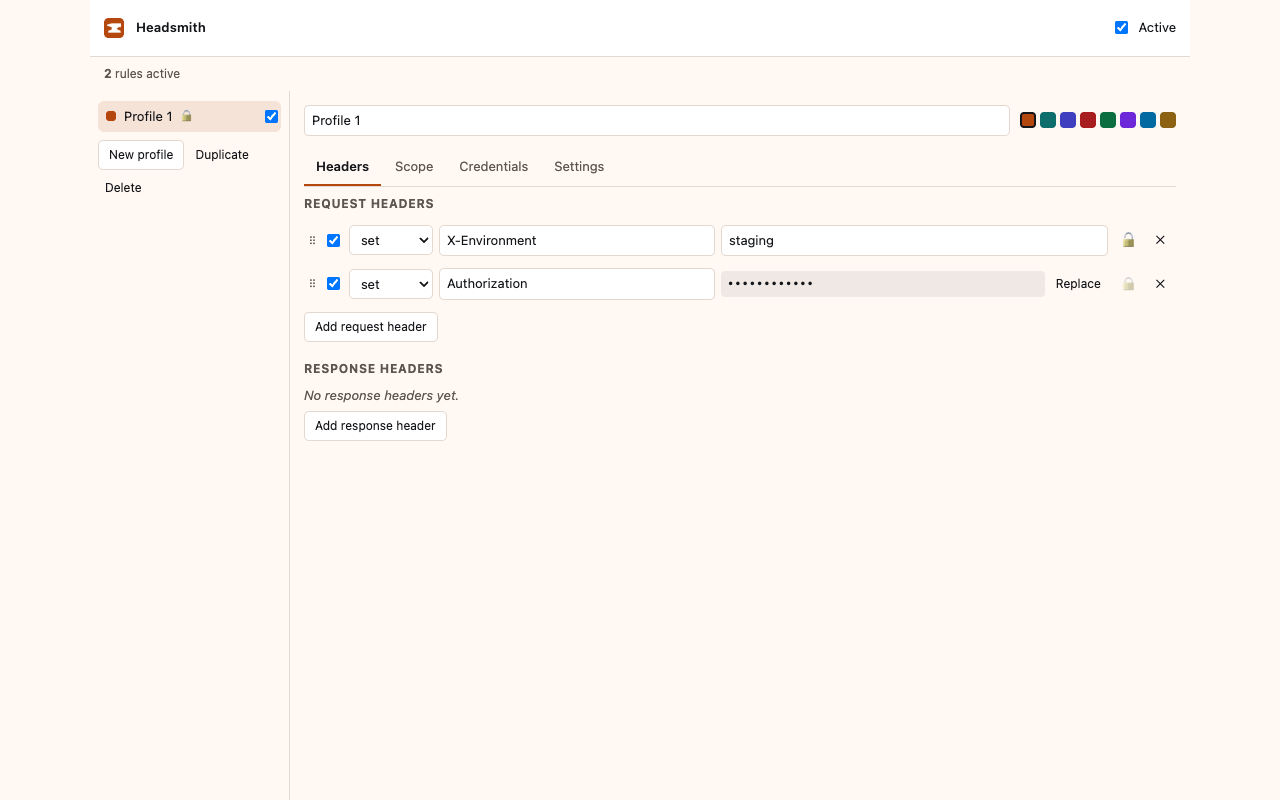
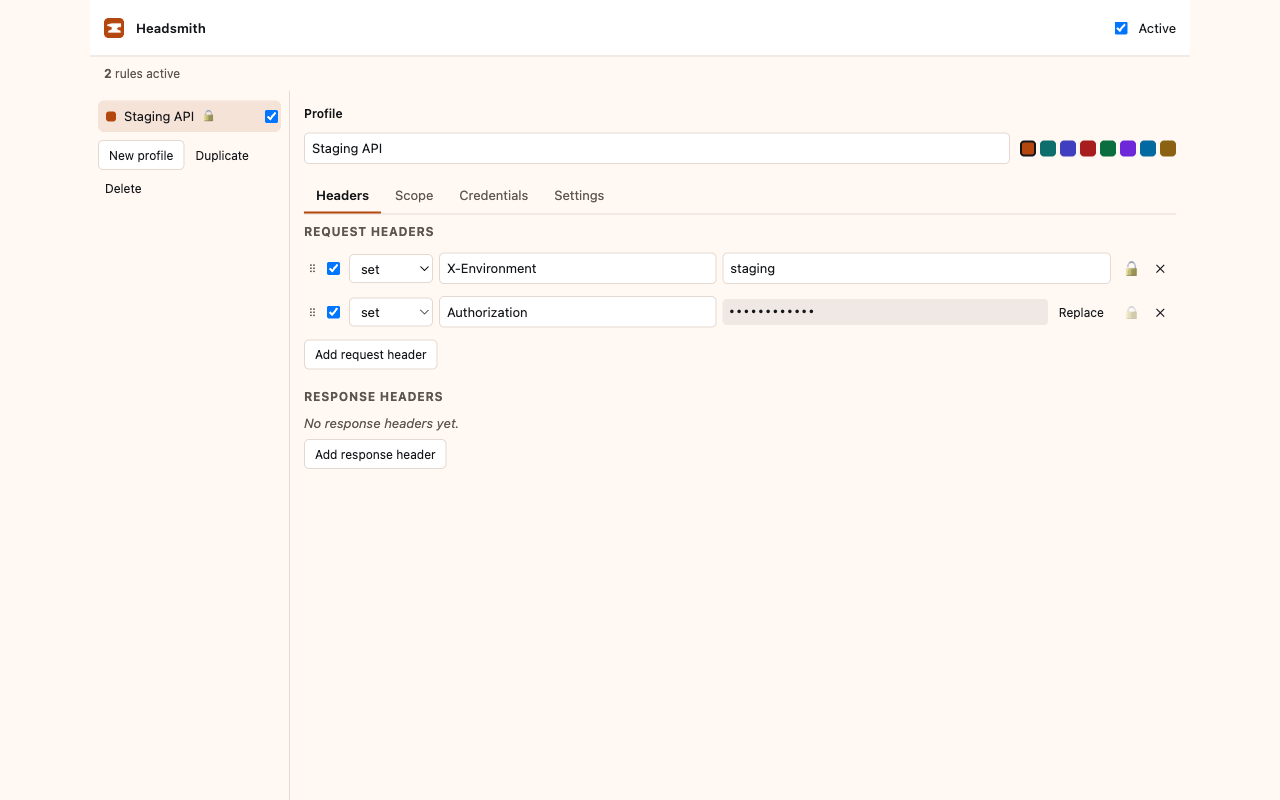
Generate the store screenshots instead of capturing them by hand
The Chrome Web Store requires exactly 1280x800 and rejects anything else
with an error that does not mention the size. DevTools cannot produce that
on a Retina display without fiddling: the panel captures at the device pixel
ratio, so a 1280x800 viewport is written out as 2560x1600. That is not
obvious from either the tool or the rejection, and it has to be got right
again for every shot on every release.

`npm run screenshots` pins deviceScaleFactor to 1, scripts the content so
the images are reproducible and stay current with the UI, and checks every
file it produced rather than trusting itself.

It also clears the output directory first. The check immediately earned that
by catching a 420x640 leftover from an earlier ad-hoc run, sitting in the
directory you would upload from -- and the store rejects a whole submission
for one wrong-sized image without saying which.

The popup is composited onto a 1280x800 field rather than submitted at its
real 420px width, which the store would upscale into mush.

diff --git a/PUBLISHING.md b/PUBLISHING.md
@@ -38,12 +38,23 @@ All generated — run `npm run icons` and they land in `assets/`.
 | Store icon | 128 × 128 | `assets/store/store-icon-128.png` |
 | Small promo tile | 440 × 280 | `assets/store/promo-small-440x280.png` |
 | Marquee promo tile | 1400 × 560 | `assets/store/promo-marquee-1400x560.png` |
-| Screenshots | 1280 × 800 (or 640 × 400) | You supply these — at least one, up to five |
+| Screenshots | 1280 × 800 | `assets/store/screenshots/`, via `npm run screenshots` |
 
-Screenshots are the one thing not generated. Take them at exactly 1280 × 800:
-open the extension page, then DevTools → device toolbar → set 1280 × 800 →
-capture screenshot. Show the profile editor with real-looking rules; the most
-common rejection is screenshots that do not demonstrate the described
+```bash
+npm run build && npm run screenshots
+```
+
+**Do not capture these by hand through DevTools.** On a Retina display the
+panel captures at the device pixel ratio, so a 1280 × 800 viewport is written
+out as 2560 × 1600 and the store refuses it — with an error that does not
+mention the size. The script pins `deviceScaleFactor: 1`, checks every file it
+produced, and fails if any is the wrong size. It also clears the directory
+first, because the store rejects an entire submission for one stale
+wrong-sized image without telling you which one.
+
+The shots are scripted rather than posed, so they are reproducible and stay
+current with the UI. They use a realistic profile — the most common rejection
+for a developer tool is screenshots that do not demonstrate the described
 functionality.
 
 ## Release and upload
